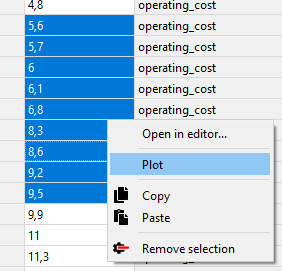
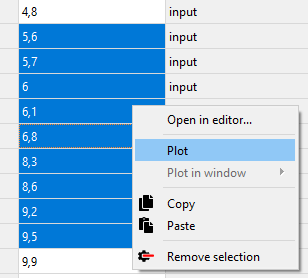
Improve User Guide
Added a few words about adding new plots to existing plot windows to the
User Guide

Re #599

diff --git a/docs/source/plotting.rst b/docs/source/plotting.rst
@@ -5,9 +5,7 @@ Plotting
 ========
 
 Basic data visualization is available in the data store views.
-Currently, it is possible to plot plain parameter values as well as time series.
-There are some limitations in plotting data from different sources, however.
-For instance, object and relationship parameter time series cannot be plotted on the same graph at the moment.
+Currently, it is possible to plot plain parameter values as well as time series and maps.
 
 To plot a column, select the values from a table and then *Plot* from the **right click** popup menu.
 
@@ -18,6 +16,12 @@ To plot a column, select the values from a table and then *Plot* from the **righ
    :align: center
 
 Selecting data in multiple columns plots the selection in a single window.
+
+It is possible to add a plot to an existing plot window. Select the target plot window
+from the *Plot in window* submenu and the data will be added to the plot.
+
+.. image:: img/plotting_popup_menu_plot_in_window.png
+   :align: center
 
 X axis for plain values
 -----------------------
